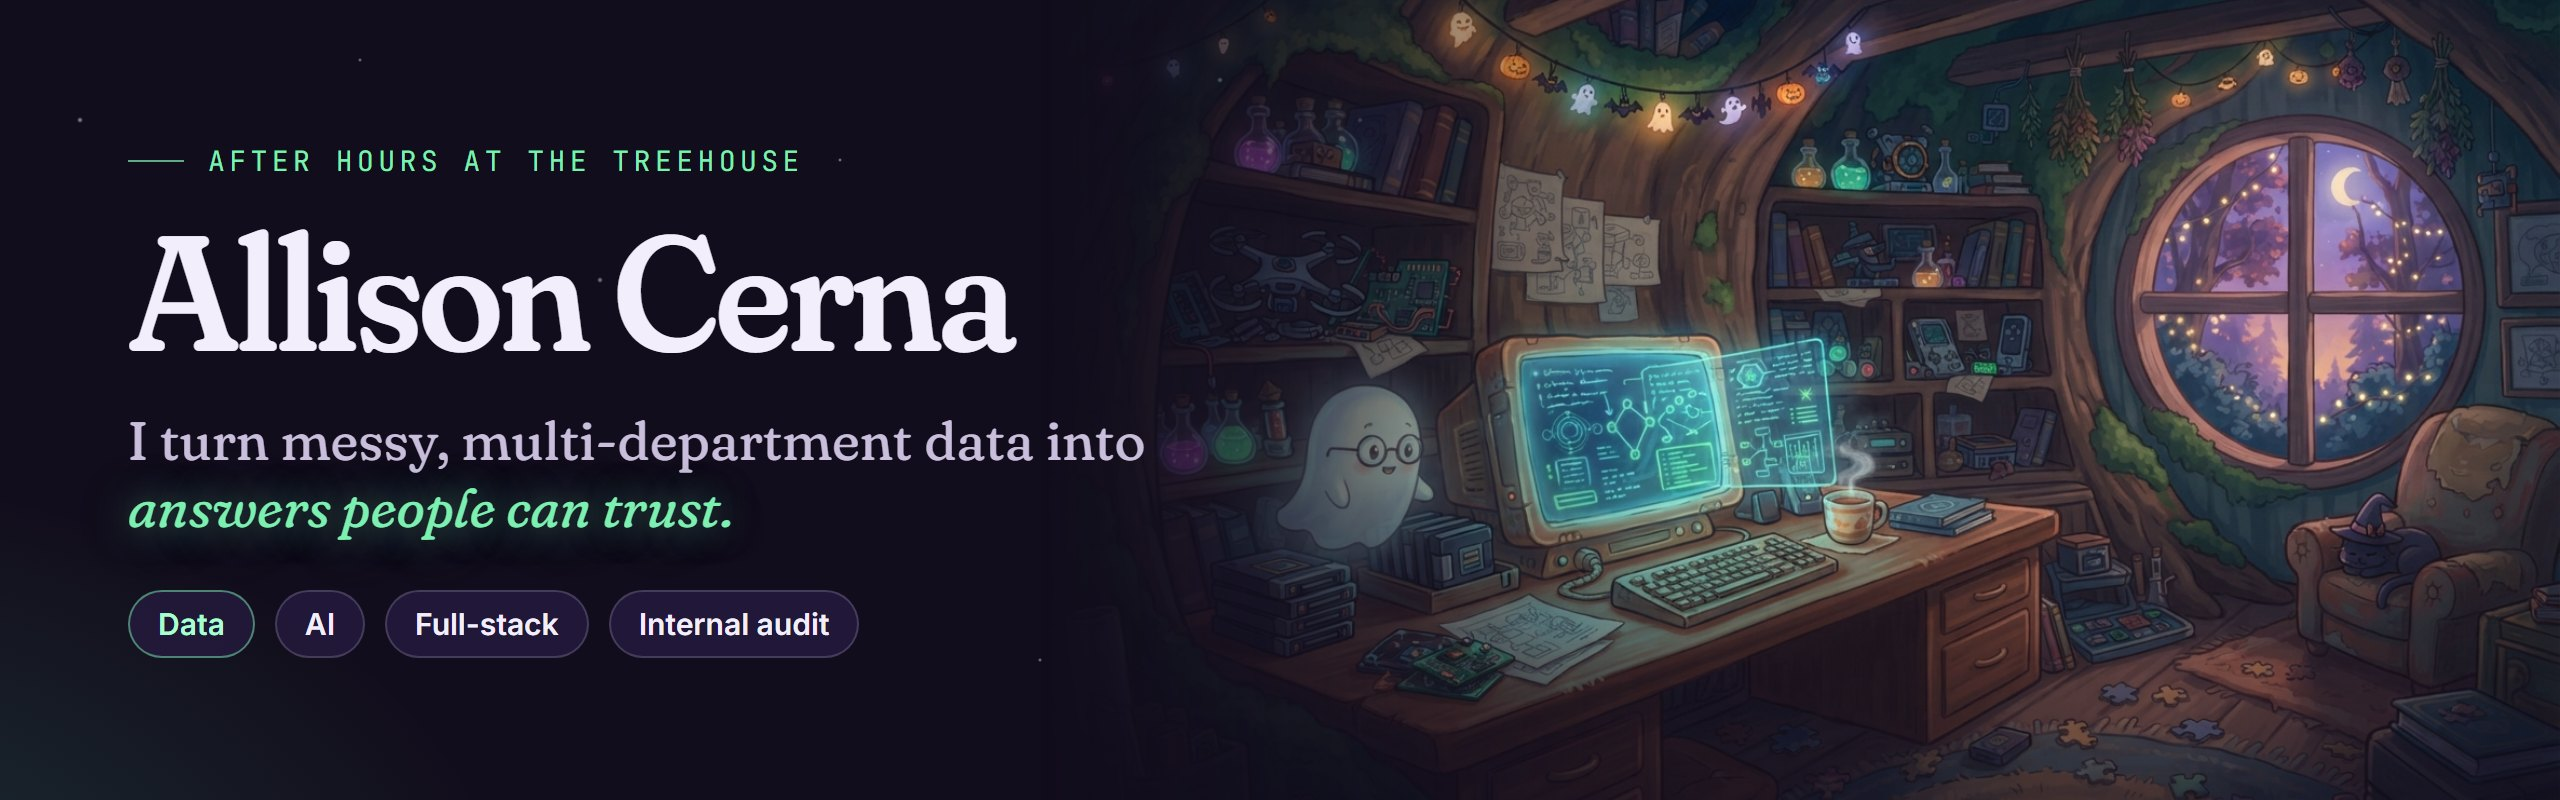
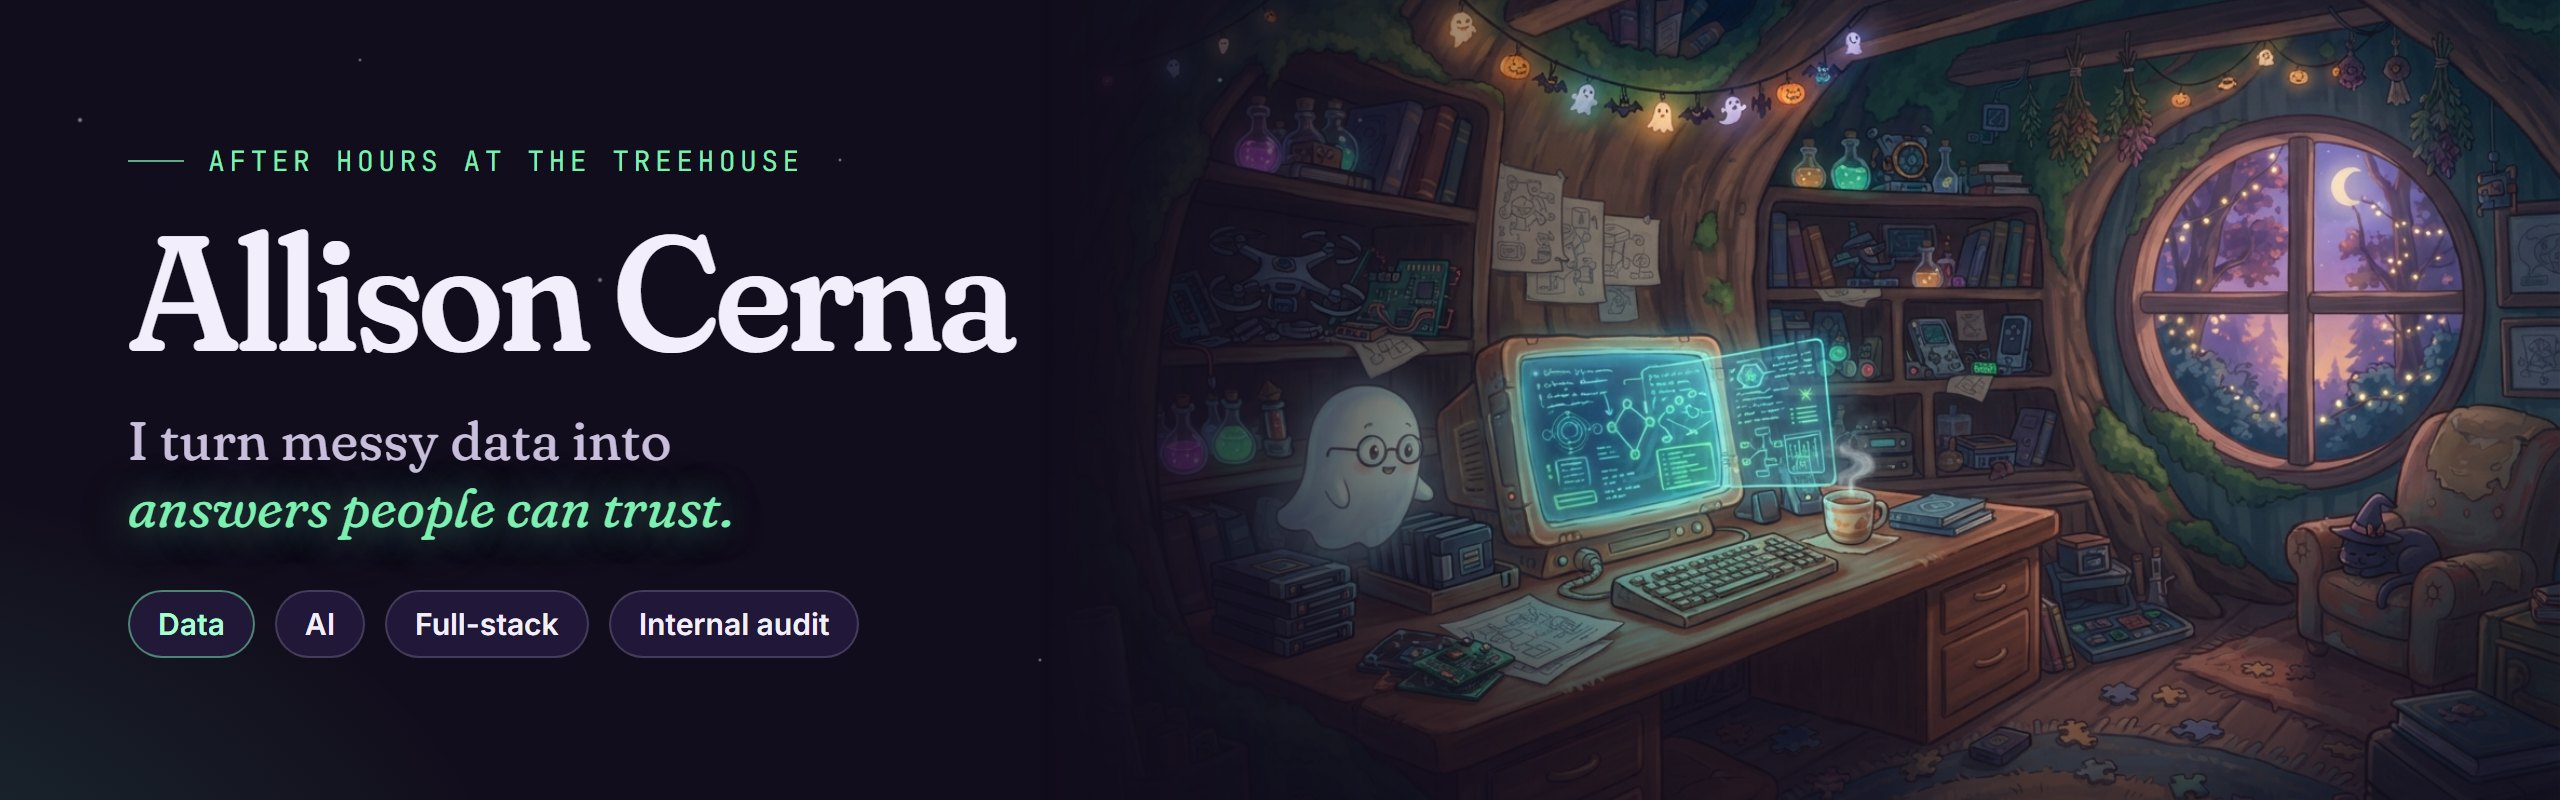
simplify the tagline

Changed region(s): [[0.1562, 0.5312, 0.4688, 0.5938]]

diff --git a/README.md b/README.md
@@ -1,7 +1,7 @@
 <!-- The banner follows your GitHub theme: After Hours in dark mode, Office Hours in light mode. -->
 <picture>
   <source media="(prefers-color-scheme: light)" srcset="assets/banner-office.png" />
-  <img width="100%" src="assets/banner-after.jpg" alt="Allison Cerna. I turn messy, multi-department data into answers people can trust. Data, AI, full-stack, internal audit." />
+  <img width="100%" src="assets/banner-after.jpg" alt="Allison Cerna. I turn messy data into answers people can trust. Data, AI, full-stack, internal audit." />
 </picture>
 
 <p align="center">
